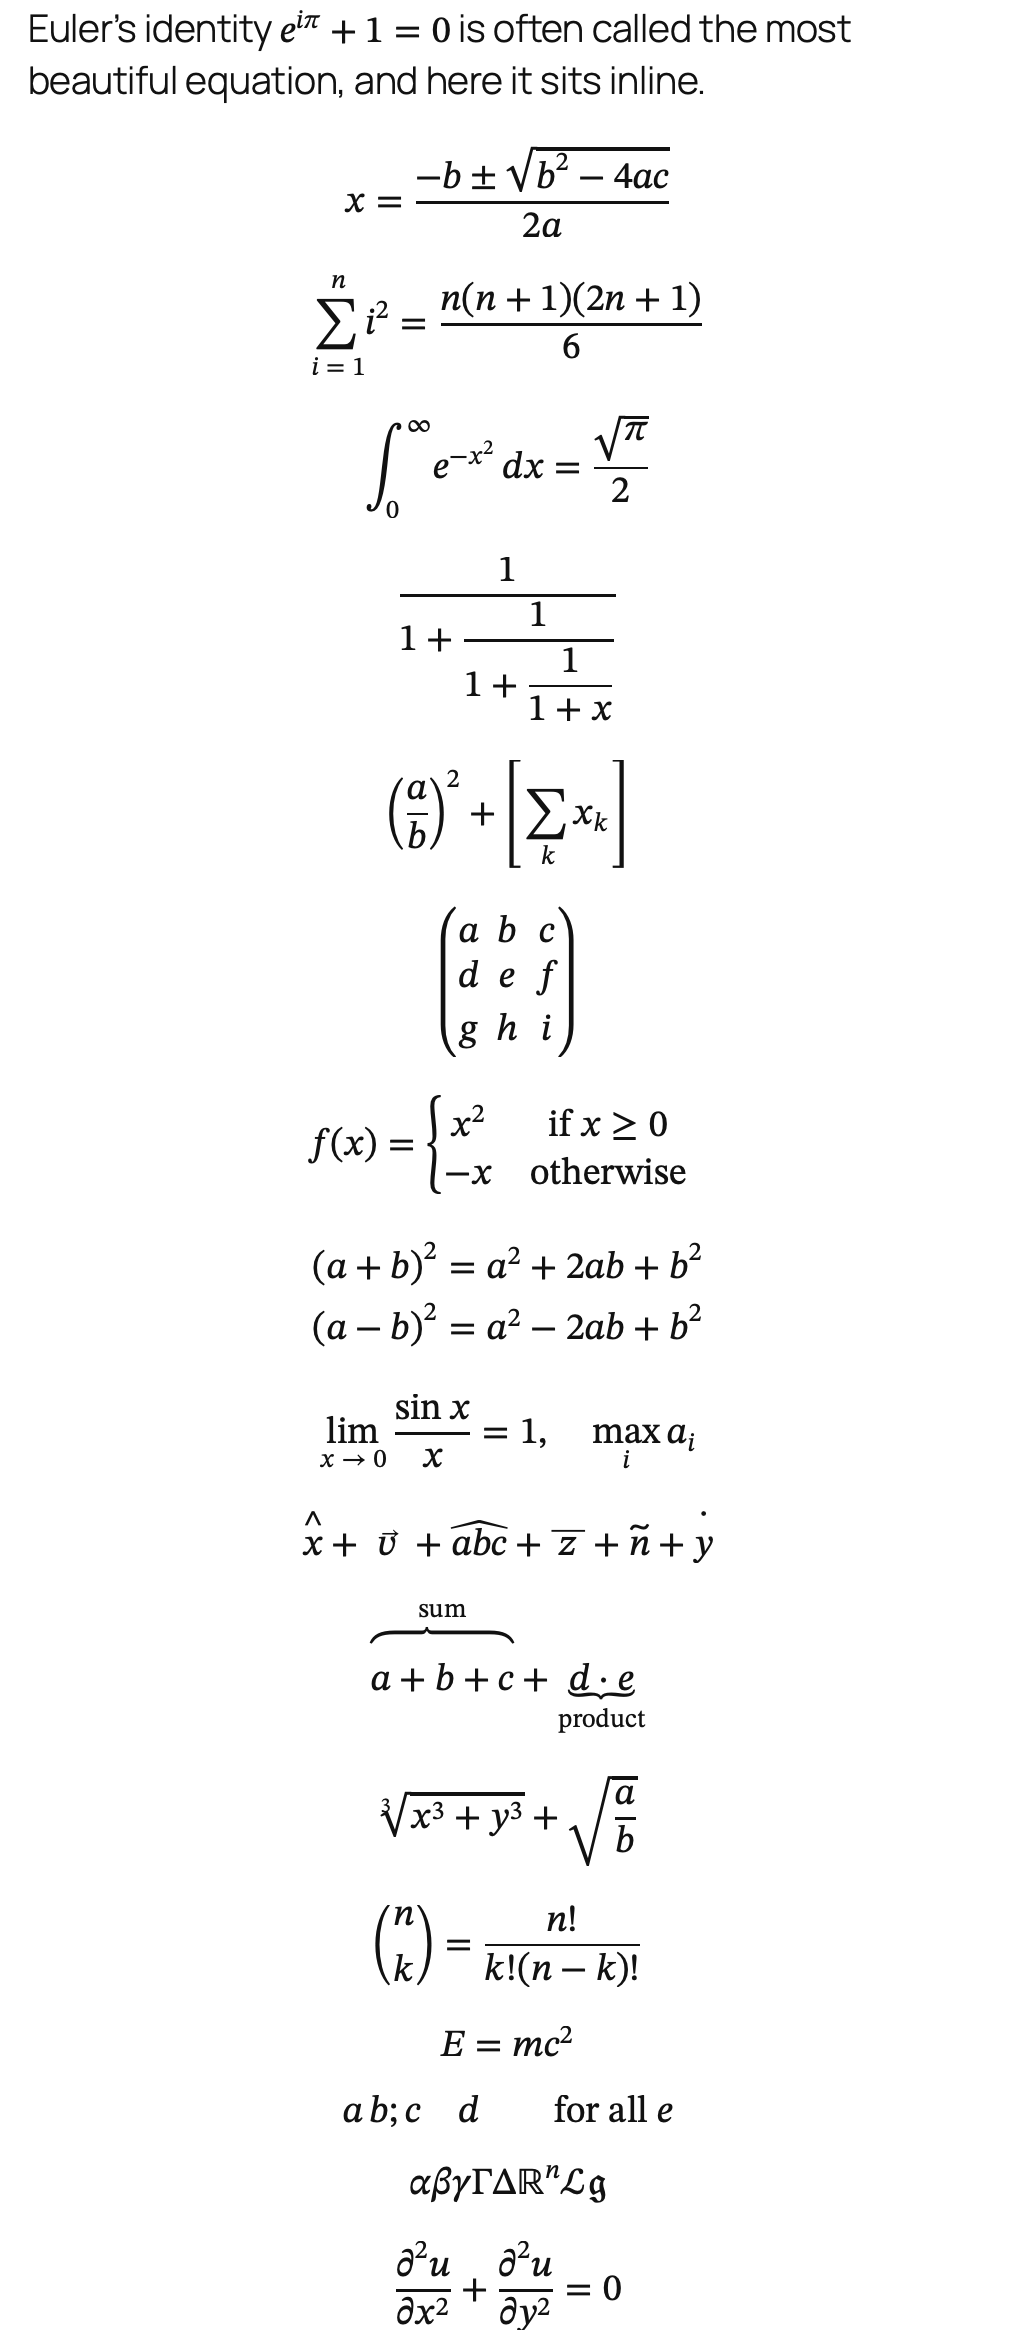
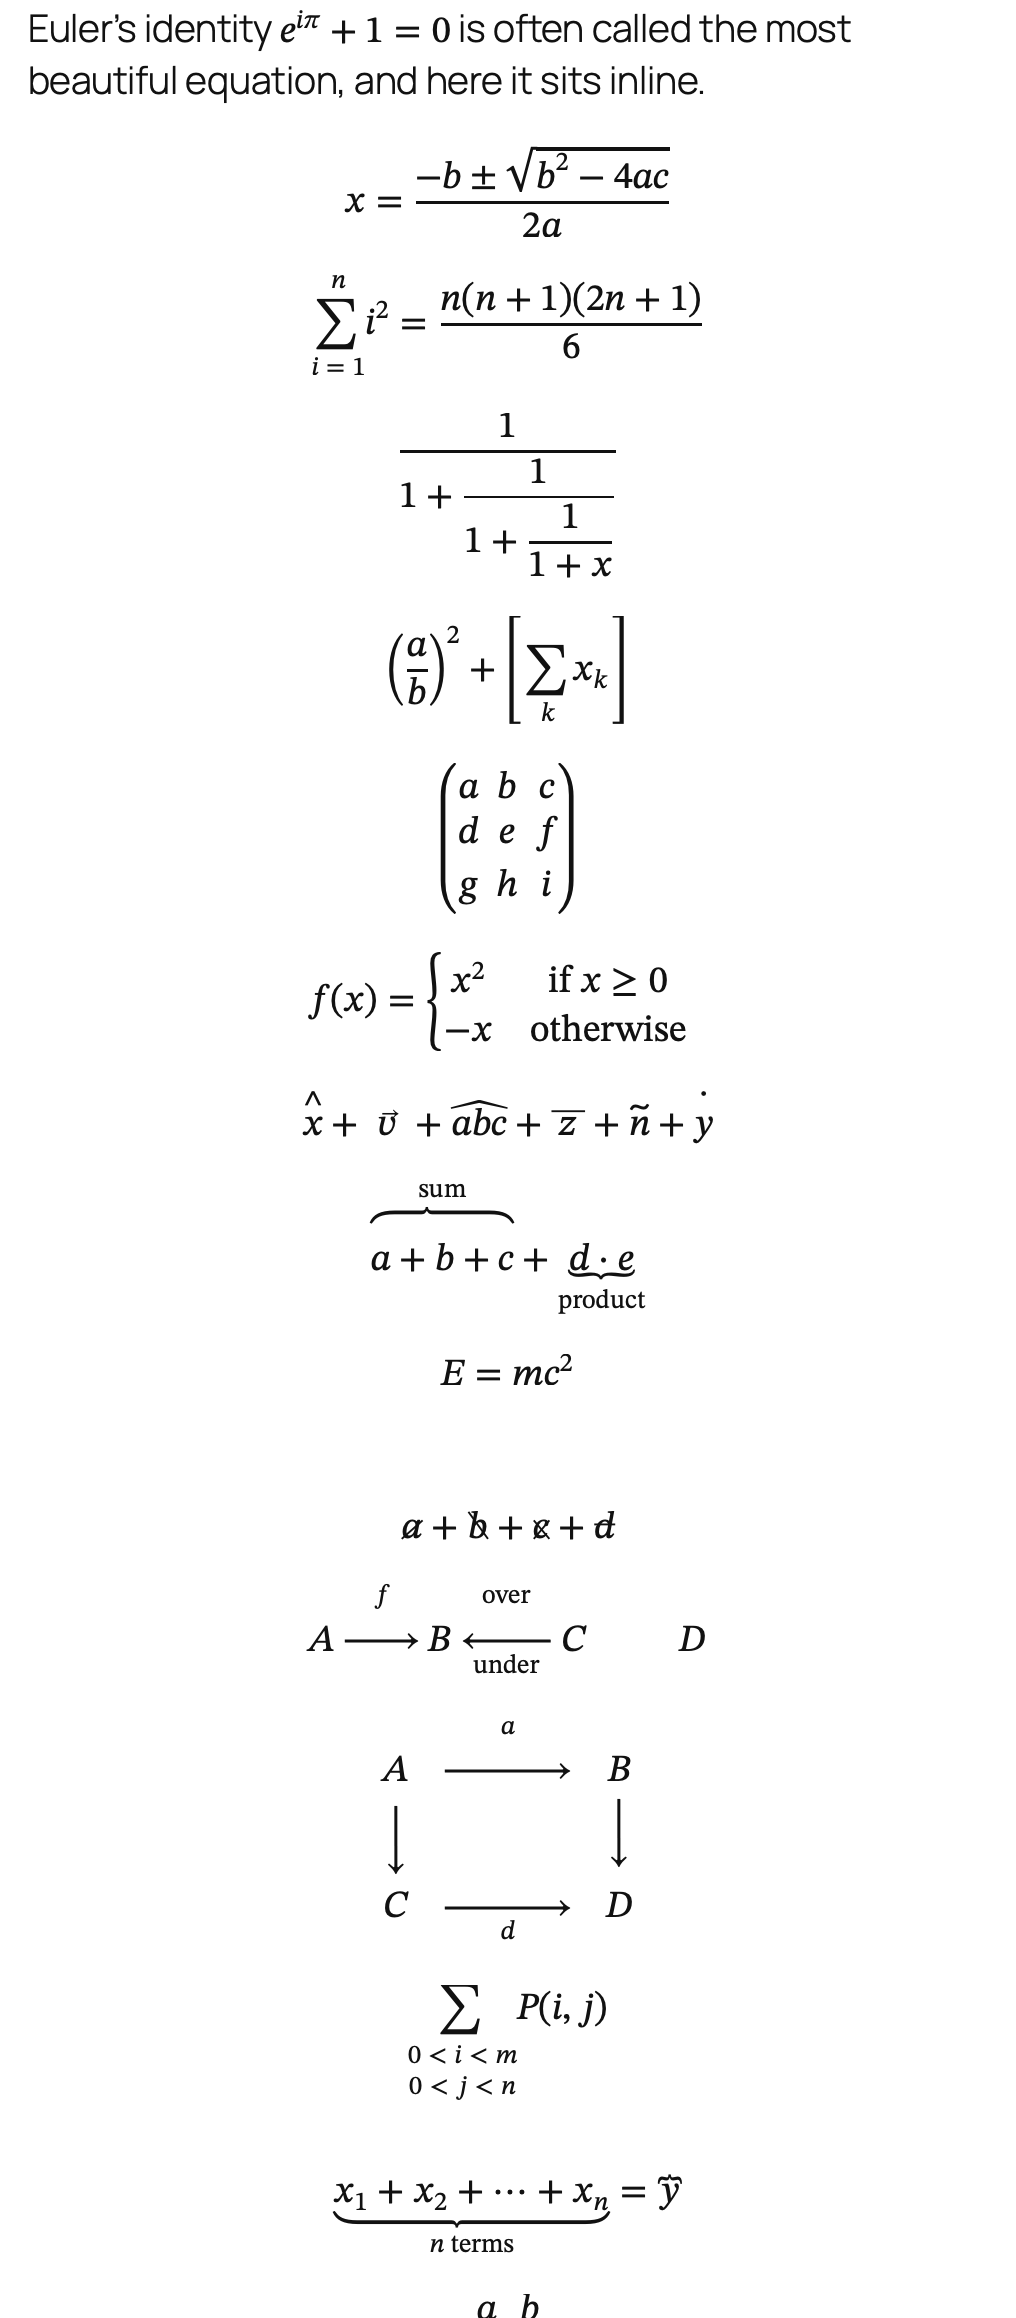
Room for what KaTeX paints beyond its box, and a tighter set of formulas
The Math block clips vertical overflow. Labels over braces and arrows and deep descenders reach up to 0.35em beyond KaTeX's box, so the display rendering gets that much padding. The screenshots keep only the formulas that render differently.

diff --git a/test/screenshots/content.html b/test/screenshots/content.html
@@ -11,10 +11,6 @@
 <!-- /wp:math -->
 
 <!-- wp:math -->
-<div class="wp-block-math"><math display="block"><semantics><mrow><msubsup><mo movablelimits="false">∫</mo><mn>0</mn><mi>∞</mi></msubsup><msup><mi>e</mi><mrow><mo lspace="0em" rspace="0em">−</mo><msup><mi>x</mi><mn>2</mn></msup></mrow></msup><mspace width="0.1667em"></mspace><mi>d</mi><mi>x</mi><mo>=</mo><mfrac><msqrt><mi>π</mi></msqrt><mn>2</mn></mfrac></mrow><annotation encoding="application/x-tex">\int_{0}^{\infty} e^{-x^2} \, dx = \frac{\sqrt{\pi}}{2}</annotation></semantics></math></div>
-<!-- /wp:math -->
-
-<!-- wp:math -->
 <div class="wp-block-math"><math display="block"><semantics><mstyle displaystyle="true" scriptlevel="0"><mfrac><mn>1</mn><mrow><mn>1</mn><mo>+</mo><mstyle displaystyle="true" scriptlevel="0"><mfrac><mn>1</mn><mrow><mn>1</mn><mo>+</mo><mstyle displaystyle="true" scriptlevel="0"><mfrac><mn>1</mn><mrow><mn>1</mn><mo>+</mo><mi>x</mi></mrow></mfrac></mstyle></mrow></mfrac></mstyle></mrow></mfrac></mstyle><annotation encoding="application/x-tex">\cfrac{1}{1 + \cfrac{1}{1 + \cfrac{1}{1 + x}}}</annotation></semantics></math></div>
 <!-- /wp:math -->
 
@@ -31,14 +27,6 @@
 <!-- /wp:math -->
 
 <!-- wp:math -->
-<div class="wp-block-math"><math display="block"><semantics><mtable displaystyle="true" columnalign="right left"><mtr><mtd columnalign="right" style="padding-left:0em;padding-right:0em;"><mrow><mo form="prefix" stretchy="false">(</mo><mi>a</mi><mo>+</mo><mi>b</mi><msup><mo form="postfix" stretchy="false">)</mo><mn>2</mn></msup></mrow></mtd><mtd columnalign="left" style="padding-left:0em;padding-right:0em;"><mrow><mo>=</mo><msup><mi>a</mi><mn>2</mn></msup><mo>+</mo><mn>2</mn><mi>a</mi><mi>b</mi><mo>+</mo><msup><mi>b</mi><mn>2</mn></msup></mrow></mtd></mtr><mtr><mtd columnalign="right" style="padding-left:0em;padding-right:0em;"><mrow><mo form="prefix" stretchy="false">(</mo><mi>a</mi><mo>−</mo><mi>b</mi><msup><mo form="postfix" stretchy="false">)</mo><mn>2</mn></msup></mrow></mtd><mtd columnalign="left" style="padding-left:0em;padding-right:0em;"><mrow><mo>=</mo><msup><mi>a</mi><mn>2</mn></msup><mo>−</mo><mn>2</mn><mi>a</mi><mi>b</mi><mo>+</mo><msup><mi>b</mi><mn>2</mn></msup></mrow></mtd></mtr></mtable><annotation encoding="application/x-tex">\begin{aligned} (a+b)^2 &amp;= a^2 + 2ab + b^2 \\ (a-b)^2 &amp;= a^2 - 2ab + b^2 \end{aligned}</annotation></semantics></math></div>
-<!-- /wp:math -->
-
-<!-- wp:math -->
-<div class="wp-block-math"><math display="block"><semantics><mrow><munder><mi>lim</mi><mrow><mi>x</mi><mo>→</mo><mn>0</mn></mrow></munder><mo></mo><mspace width="0.1667em"></mspace><mfrac><mrow><mrow><mi>sin</mi><mo></mo><mspace width="0.1667em"></mspace></mrow><mi>x</mi></mrow><mi>x</mi></mfrac><mo>=</mo><mn>1</mn><mo separator="true">,</mo><mspace width="1em"></mspace><munder><mi>max</mi><mi>i</mi></munder><mo></mo><mspace width="0.1667em"></mspace><msub><mi>a</mi><mi>i</mi></msub></mrow><annotation encoding="application/x-tex">\lim_{x \to 0} \frac{\sin x}{x} = 1, \quad \max_{i} a_i</annotation></semantics></math></div>
-<!-- /wp:math -->
-
-<!-- wp:math -->
 <div class="wp-block-math"><math display="block"><semantics><mrow><mover><mi>x</mi><mo stretchy="false" style="math-style:normal;math-depth:0;">^</mo></mover><mo>+</mo><mover><mi>v</mi><mo stretchy="false" style="transform:scale(0.75) translate(10%, 30%);">→</mo></mover><mo>+</mo><mover><mrow><mi>a</mi><mi>b</mi><mi>c</mi></mrow><mo stretchy="true" style="math-style:normal;math-depth:0;">^</mo></mover><mo>+</mo><menclose notation="top"><mi>z</mi></menclose><mo>+</mo><mover><mi>n</mi><mo stretchy="false" style="math-style:normal;math-depth:0;">~</mo></mover><mo>+</mo><mover><mi>y</mi><mo stretchy="false" style="math-style:normal;math-depth:0;">˙</mo></mover></mrow><annotation encoding="application/x-tex">\hat{x} + \vec{v} + \widehat{abc} + \overline{z} + \tilde{n} + \dot{y}</annotation></semantics></math></div>
 <!-- /wp:math -->
 
@@ -47,25 +35,33 @@
 <!-- /wp:math -->
 
 <!-- wp:math -->
-<div class="wp-block-math"><math display="block"><semantics><mrow><mroot><mrow><msup><mi>x</mi><mn>3</mn></msup><mo>+</mo><msup><mi>y</mi><mn>3</mn></msup></mrow><mn>3</mn></mroot><mo>+</mo><msqrt><mfrac><mi>a</mi><mi>b</mi></mfrac></msqrt></mrow><annotation encoding="application/x-tex">\sqrt[3]{x^3 + y^3} + \sqrt{\frac{a}{b}}</annotation></semantics></math></div>
-<!-- /wp:math -->
-
-<!-- wp:math -->
-<div class="wp-block-math"><math display="block"><semantics><mrow><mrow><mo fence="true">(</mo><mfrac linethickness="0px"><mi>n</mi><mi>k</mi></mfrac><mo fence="true">)</mo></mrow><mo>=</mo><mfrac><mrow><mi>n</mi><mo form="postfix" stretchy="false" lspace="0em" rspace="0em">!</mo></mrow><mrow><mi>k</mi><mo form="postfix" stretchy="false">!</mo><mo form="prefix" stretchy="false">(</mo><mi>n</mi><mo>−</mo><mi>k</mi><mo form="postfix" stretchy="false">)</mo><mo form="postfix" stretchy="false" lspace="0em" rspace="0em">!</mo></mrow></mfrac></mrow><annotation encoding="application/x-tex">\binom{n}{k} = \frac{n!}{k!(n-k)!}</annotation></semantics></math></div>
-<!-- /wp:math -->
-
-<!-- wp:math -->
 <div class="wp-block-math"><math display="block"><semantics><mrow notation="box" scriptlevel="0" displaystyle="true"><mspace width="3pt"></mspace><mrow><mi>E</mi><mo>=</mo><mi>m</mi><msup><mi>c</mi><mn>2</mn></msup></mrow><mspace width="3pt"></mspace></mrow><annotation encoding="application/x-tex">\boxed{E = mc^2}</annotation></semantics></math></div>
 <!-- /wp:math -->
 
 <!-- wp:math -->
-<div class="wp-block-math"><math display="block"><semantics><mrow><mi>a</mi><mspace width="0.1667em"></mspace><mi>b</mi><mo separator="true">;</mo><mi>c</mi><mspace width="1em"></mspace><mi>d</mi><mspace width="2em"></mspace><mtext>for all </mtext><mi>e</mi></mrow><annotation encoding="application/x-tex">a \, b ; c \quad d \qquad \text{for all } e</annotation></semantics></math></div>
+<div class="wp-block-math"><math display="block"><semantics><mtable displaystyle="true" style="width:100%;"><mtr><mtd style="padding:0;width:50%;"></mtd><mtd><mrow><mi>E</mi><mo>=</mo><mi>m</mi><msup><mi>c</mi><mn>2</mn></msup></mrow></mtd><mtd columnalign="right" style="padding:0;width:50%;"><mtext>(1)</mtext></mtd></mtr></mtable><annotation encoding="application/x-tex">E = mc^2 \tag{1}</annotation></semantics></math></div>
 <!-- /wp:math -->
 
 <!-- wp:math -->
-<div class="wp-block-math"><math display="block"><semantics><mrow><mi>α</mi><mi>β</mi><mi>γ</mi><mrow><mi mathvariant="normal">Γ</mi></mrow><mrow><mi mathvariant="normal">Δ</mi></mrow><msup><mi>ℝ</mi><mi>n</mi></msup><mi>ℒ</mi><mi>𝔤</mi></mrow><annotation encoding="application/x-tex">\alpha \beta \gamma \Gamma \Delta \mathbb{R}^n \mathcal{L} \mathfrak{g}</annotation></semantics></math></div>
+<div class="wp-block-math"><math display="block"><semantics><mrow><menclose notation="updiagonalstrike"><mi>a</mi><mrow></mrow></menclose><mo>+</mo><menclose notation="downdiagonalstrike"><mi>b</mi><mrow></mrow></menclose><mo>+</mo><menclose notation="updiagonalstrike downdiagonalstrike"><mi>c</mi></menclose><mo>+</mo><menclose notation="horizontalstrike"><mi>d</mi><mrow></mrow></menclose></mrow><annotation encoding="application/x-tex">\cancel{a} + \bcancel{b} + \xcancel{c} + \sout{d}</annotation></semantics></math></div>
 <!-- /wp:math -->
 
 <!-- wp:math -->
-<div class="wp-block-math"><math display="block"><semantics><mrow><mfrac><mrow><msup><mi>∂</mi><mn>2</mn></msup><mi>u</mi></mrow><mrow><mi>∂</mi><msup><mi>x</mi><mn>2</mn></msup></mrow></mfrac><mo>+</mo><mfrac><mrow><msup><mi>∂</mi><mn>2</mn></msup><mi>u</mi></mrow><mrow><mi>∂</mi><msup><mi>y</mi><mn>2</mn></msup></mrow></mfrac><mo>=</mo><mn>0</mn></mrow><annotation encoding="application/x-tex">\frac{\partial^2 u}{\partial x^2} + \frac{\partial^2 u}{\partial y^2} = 0</annotation></semantics></math></div>
+<div class="wp-block-math"><math display="block"><semantics><mrow><mi>A</mi><mrow><mspace width="0.2778em"></mspace><mover accent="false"><mo stretchy="true" lspace="0" rspace="0">→</mo><mover><mrow><mspace width="0.4286em"></mspace><mrow><mspace width="0.2778em"></mspace><mi>f</mi><mspace width="0.2778em"></mspace></mrow><mspace width="0.4286em"></mspace></mrow><mspace width="3.5000em"></mspace></mover></mover><mspace width="0.2778em"></mspace></mrow><mi>B</mi><mrow><mspace width="0.2778em"></mspace><munderover accent="false"><mo stretchy="true" lspace="0" rspace="0">←</mo><munder><mrow><mspace width="0.4286em"></mspace><mtext>under</mtext><mspace width="0.4286em"></mspace></mrow><mspace width="3.5000em"></mspace></munder><mover><mrow><mspace width="0.4286em"></mspace><mtext>over</mtext><mspace width="0.4286em"></mspace></mrow><mspace width="3.5000em"></mspace></mover></munderover><mspace width="0.2778em"></mspace></mrow><mi>C</mi><mpadded voffset="-0.18em" height="-0.18em" depth="+0.18em"><mspace width="0.2778em"></mspace><mpadded voffset="0.3em" height="+0.3em" depth="-0.3em" width="0"><mover accent="false"><mo stretchy="true" lspace="0" rspace="0">⇀</mo><mover><mrow><mspace width="0.4286em"></mspace><mi>k</mi><mspace width="0.4286em"></mspace></mrow><mspace width="3.5000em"></mspace></mover></mover></mpadded><mover accent="false"><mo stretchy="true" lspace="0" rspace="0">↽</mo><mover><mrow><mspace width="0.4286em"></mspace><mpadded height="0px" depth="0px"><mphantom><mi>k</mi></mphantom></mpadded><mspace width="0.4286em"></mspace></mrow><mspace width="3.5000em"></mspace></mover></mover><mspace width="0.2778em"></mspace></mpadded><mi>D</mi></mrow><annotation encoding="application/x-tex">A \xrightarrow{\;f\;} B \xleftarrow[\text{under}]{\text{over}} C \xrightleftharpoons{k} D</annotation></semantics></math></div>
+<!-- /wp:math -->
+
+<!-- wp:math -->
+<div class="wp-block-math"><math display="block"><semantics><mtable><mtr><mtd style="padding-left:0em;padding-right:0.25em;"><mstyle scriptlevel="0" displaystyle="true"><mi>A</mi></mstyle></mtd><mtd style="padding-left:0.25em;padding-right:0.25em;"><mrow><mspace width="0.2778em"></mspace><mover accent="false" style="height:1em;"><mo stretchy="true" lspace="0" rspace="0">→</mo><mover><mpadded height="0"><mspace width="0.4286em"></mspace><mi>a</mi><mspace width="0.4286em"></mspace></mpadded><mspace width="6.0000em"></mspace></mover></mover><mspace width="0.2778em"></mspace></mrow></mtd><mtd style="padding-left:0.25em;padding-right:0em;"><mstyle scriptlevel="0" displaystyle="true"><mi>B</mi></mstyle></mtd></mtr><mtr><mtd style="padding-left:0em;padding-right:0.25em;"><mrow><mrow><mpadded width="0" displaystyle="false" scriptlevel="1" style="display:flex;justify-content:flex-end;"><mtable><mtr><mtd style="padding:0;"><mi>b</mi></mtd></mtr></mtable></mpadded><mo fence="false" stretchy="true" symmetric="true" minsize="1.8em" maxsize="1.8em">↓</mo><mrow></mrow></mrow></mrow></mtd><mtd style="padding-left:0.25em;padding-right:0.25em;"><mstyle scriptlevel="0" displaystyle="true"></mstyle></mtd><mtd style="padding-left:0.25em;padding-right:0em;"><mrow><mrow><mrow></mrow><mo fence="false" stretchy="true" symmetric="true" minsize="1.8em" maxsize="1.8em">↓</mo><mpadded width="0" displaystyle="false" scriptlevel="1"><mtable><mtr><mtd style="padding:0;"><mi>c</mi></mtd></mtr></mtable></mpadded></mrow></mrow></mtd></mtr><mtr><mtd style="padding-left:0em;padding-right:0.25em;"><mstyle scriptlevel="0" displaystyle="true"><mi>C</mi></mstyle></mtd><mtd style="padding-left:0.25em;padding-right:0.25em;"><mrow><mspace width="0.2778em"></mspace><munder accent="false" style="height:1em;"><mo stretchy="true" lspace="0" rspace="0">→</mo><munder><mrow><mspace width="0.4286em"></mspace><mi>d</mi><mspace width="0.4286em"></mspace></mrow><mspace width="6.0000em"></mspace></munder></munder><mspace width="0.2778em"></mspace></mrow></mtd><mtd style="padding-left:0.25em;padding-right:0em;"><mstyle scriptlevel="0" displaystyle="true"><mi>D</mi></mstyle></mtd></mtr></mtable><annotation encoding="application/x-tex">\begin{CD} A @&gt;a&gt;&gt; B \\ @VbVV @VVcV \\ C @&gt;&gt;d&gt; D \end{CD}</annotation></semantics></math></div>
+<!-- /wp:math -->
+
+<!-- wp:math -->
+<div class="wp-block-math"><math display="block"><semantics><mrow><mrow><munder><mo movablelimits="false">∑</mo><mstyle scriptlevel="1"><mtable columnalign="center"><mtr><mtd style="padding-left:0em;padding-right:0em;"><mrow><mn>0</mn><mo>&lt;</mo><mi>i</mi><mo>&lt;</mo><mi>m</mi></mrow></mtd></mtr><mtr><mtd style="padding-left:0em;padding-right:0em;"><mrow><mn>0</mn><mo>&lt;</mo><mi>j</mi><mo>&lt;</mo><mi>n</mi></mrow></mtd></mtr></mtable></mstyle></munder></mrow><mi>P</mi><mo form="prefix" stretchy="false">(</mo><mi>i</mi><mo separator="true">,</mo><mi>j</mi><mo form="postfix" stretchy="false">)</mo></mrow><annotation encoding="application/x-tex">\sum_{\substack{0 &lt; i &lt; m \\ 0 &lt; j &lt; n}} P(i, j)</annotation></semantics></math></div>
+<!-- /wp:math -->
+
+<!-- wp:math -->
+<div class="wp-block-math"><math display="block"><semantics><mrow><mrow><munder><munder><mrow><msub><mi>x</mi><mn>1</mn></msub><mo>+</mo><msub><mi>x</mi><mn>2</mn></msub><mo>+</mo><mo>⋯</mo><mo>+</mo><msub><mi>x</mi><mi>n</mi></msub></mrow><mo stretchy="true" style="math-depth:0;">⏟</mo></munder><mrow><mi>n</mi><mtext> terms</mtext></mrow></munder></mrow><mo>=</mo><mrow><mover><mover><mi>y</mi><mo stretchy="true" style="math-depth:0;">⏞</mo></mover><mpadded lspace="-0.5width" width="0px" style="display:flex;justify-content:center;"><mtext>wide label here</mtext></mpadded></mover></mrow></mrow><annotation encoding="application/x-tex">\underbrace{x_1 + x_2 + \cdots + x_n}_{n \text{ terms}} = \overbrace{y}^{\mathclap{\text{wide label here}}}</annotation></semantics></math></div>
+<!-- /wp:math -->
+
+<!-- wp:math -->
+<div class="wp-block-math"><math display="block"><semantics><mrow><mi>a</mi><mpadded height="0px" depth="0px"><mfrac><mn>1</mn><mn>2</mn></mfrac></mpadded><mi>b</mi></mrow><annotation encoding="application/x-tex">a \smash{\frac{1}{2}} b</annotation></semantics></math></div>
 <!-- /wp:math -->

diff --git a/assets/editor.js b/assets/editor.js
@@ -26,9 +26,10 @@
 
 	const ownSheet = new CSSStyleSheet();
 	ownSheet.replaceSync(
-		// The same two overrides as on the front end: the text size rather
-		// than KaTeX's enlargement, and no margin of its own in the block.
-		'.katex{font-size:1em}.katex-display{margin:0}' +
+		// The same overrides as on the front end: the text size rather than
+		// KaTeX's enlargement, and in the block no margin of its own but room
+		// for what reaches beyond KaTeX's box, which the block clips.
+		'.katex{font-size:1em}.katex-display{margin:0;padding:0.35em 0}' +
 			// The slot is sized rather than the `<math>` in it: Firefox lays
 			// MathML out on its own terms and ignores a width on the element,
 			// a box around it is clipped by every engine.

diff --git a/katex-math.php b/katex-math.php
@@ -29,8 +29,11 @@ function katex_math_register_assets() {
 	// its fonts. The browser renders the MathML at the text size, so keep
 	// that: the plugin changes the typesetting, not the size, and a theme
 	// sizes `math` and `.katex` alike. A display formula also brings its own
-	// vertical margin, the Math block already has the block spacing.
-	wp_add_inline_style( 'katex-math-lib', '.katex{font-size:1em}.wp-block-math .katex-display{margin:0}' );
+	// vertical margin, the Math block already has the block spacing. The
+	// block clips vertical overflow, to scroll wide formulas, and labels over
+	// braces or arrows and deep descenders reach up to 0.35em beyond KaTeX's
+	// box, so the box gets that much room.
+	wp_add_inline_style( 'katex-math-lib', '.katex{font-size:1em}.wp-block-math .katex-display{margin:0;padding:0.35em 0}' );
 
 	wp_register_script( 'katex-math-lib', $vendor . 'katex.min.js', array(), KATEX_MATH_KATEX_VERSION, true );
 
